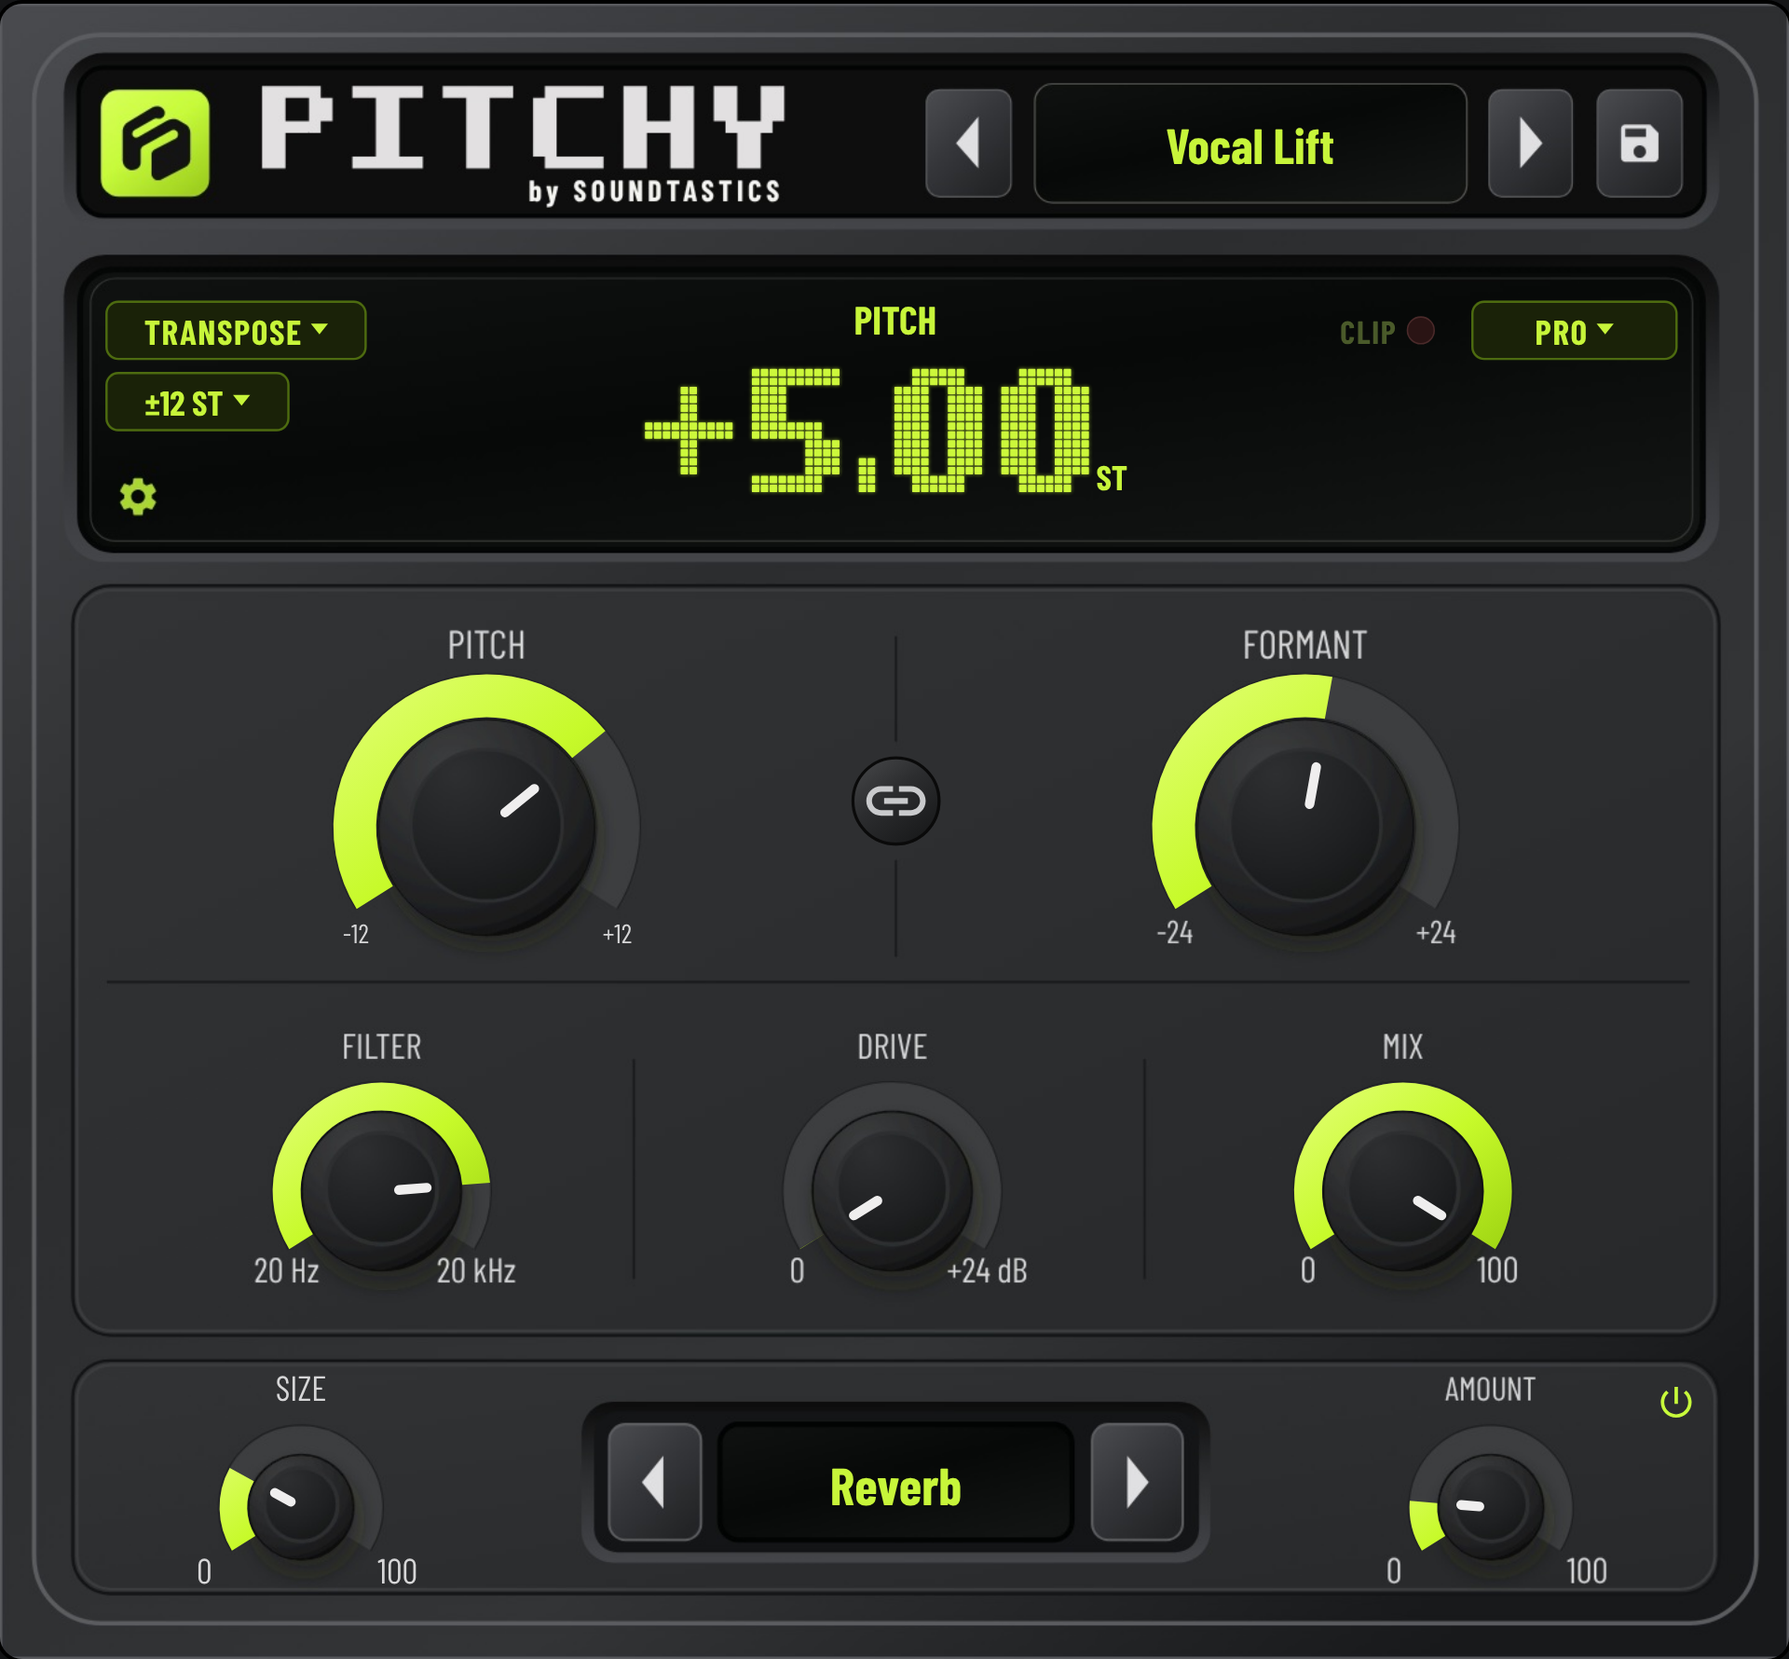
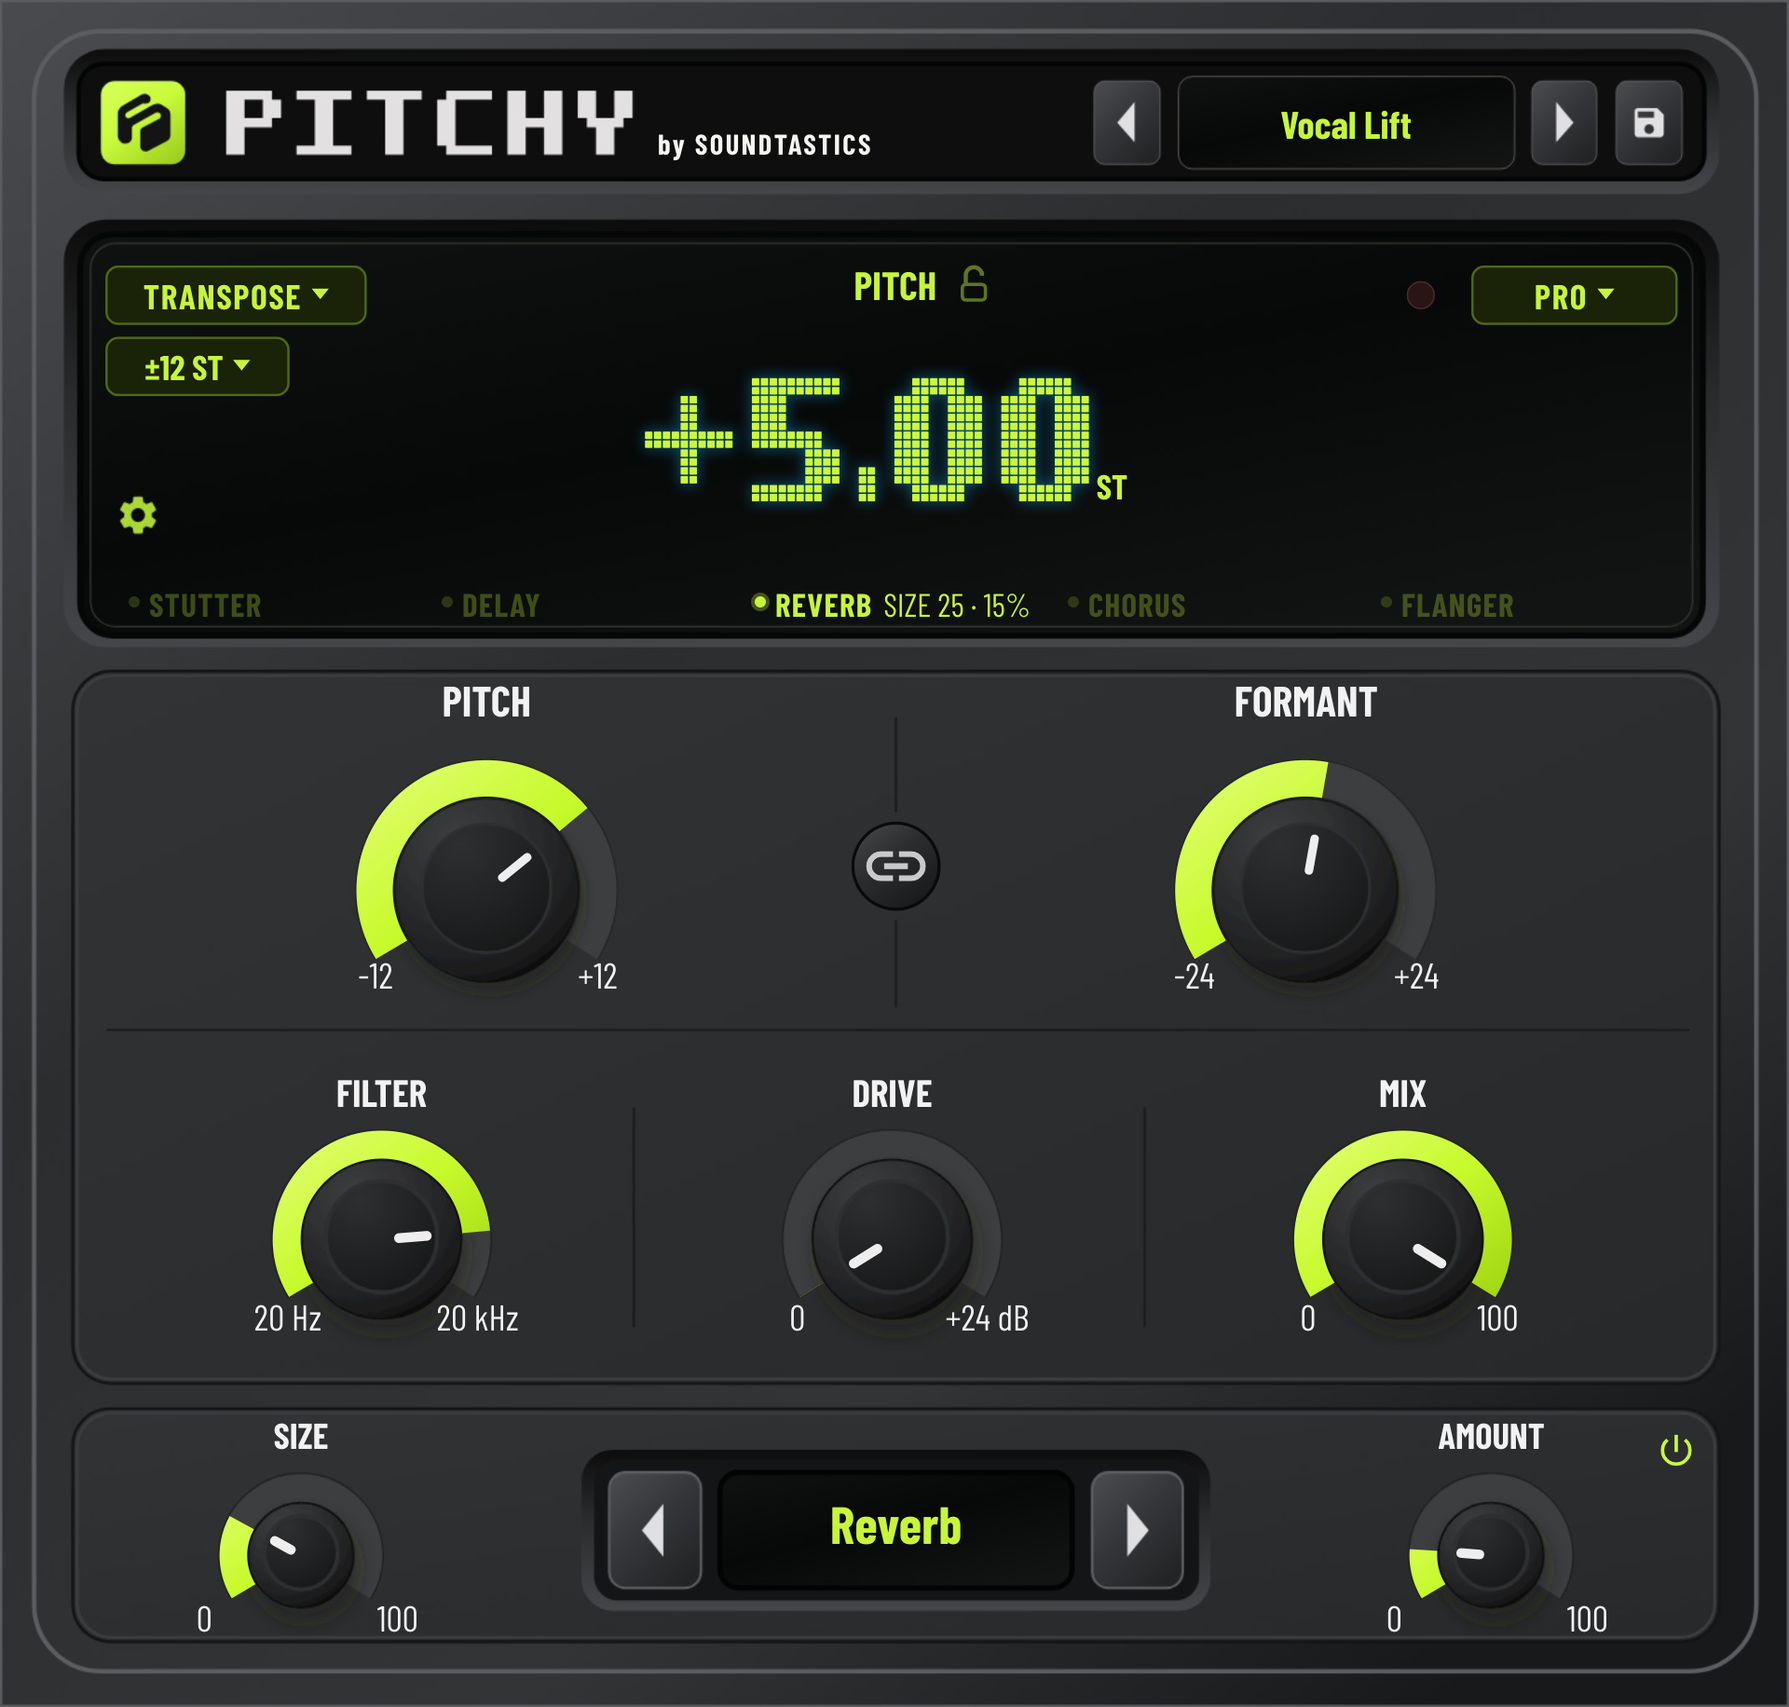
PITCHY page: screenshots and texts for plug-in 0.9.3
- the four interface screenshots (Snow, Midnight, Acid, Lime) from 0.9.3, preset Vocal Lift: taller screen with the
  effects map, lower header, crisp labels (1920x1832, was 1920x1780)
- FX: one power button for the five effects, they can be combined, each starts at Amount 0 (was 'one at a time')
- latency FAQ: compensation checked in Ableton Live 12

Claude-Session: https://claude.ai/code/session_01F3dWgWj1WW6uJfBko4J7wZ

diff --git a/tienda/public/pitchy.html b/tienda/public/pitchy.html
@@ -9,10 +9,10 @@
 <article class="feature"><small>03 / FILTER</small><h3>Equilibra el contenido tonal</h3><p>Reduce el brillo y suaviza los agudos con un filtro paso bajo de frecuencia ajustable.</p><details class="technicalDetails"><summary>Detalles técnicos</summary><p>Atenúa los agudos con un filtro paso bajo de dos polos y pendiente nominal de 12 dB/octava, sin resonancia ajustable. El corte recorre 20 Hz–20 kHz, limitado por la frecuencia de muestreo. Al máximo, el filtro se desactiva.</p></details></article>
 <article class="feature"><small>04 / DRIVE</small><h3>Explora la intensidad</h3><p>Añade saturación y carácter con Drive, desde ajustes discretos hasta un procesamiento más intenso.</p><details class="technicalDetails"><summary>Detalles técnicos</summary><p>Añade saturación de curva tanh con hasta +24 dB de ganancia previa y compensación de nivel. Drive utiliza sobremuestreo 2× y antialiasing ADAA de primer orden.</p></details></article>
 <article class="feature"><small>05 / MIX</small><h3>Original y procesado</h3><p>Equilibra el sonido original y el procesado para graduar la presencia del efecto en la mezcla.</p><details class="technicalDetails"><summary>Detalles técnicos</summary><p>Mezcla linealmente el original con toda la cadena procesada: Pitch/Formant, Filter, Drive y FX. La ruta original incorpora retardo interno para alinearse con el procesamiento.</p></details></article>
-<article class="feature"><small>06 / FX</small><h3>Cinco efectos creativos</h3><p>Añade cortes rítmicos, ecos, ambiente o modulación con Stutter, Delay, Reverb, Chorus y Flanger.</p><details class="technicalDetails"><summary>Detalles técnicos</summary><p>Elige Stutter, Delay, Reverb, Chorus o Flanger, uno a la vez. Stutter produce cortes rítmicos de volumen. En Reverb, Size cambia tamaño y decaimiento; Amount regula el nivel añadido.</p></details></article>
+<article class="feature"><small>06 / FX</small><h3>Cinco efectos creativos</h3><p>Añade cortes rítmicos, ecos, ambiente o modulación con Stutter, Delay, Reverb, Chorus y Flanger.</p><details class="technicalDetails"><summary>Detalles técnicos</summary><p>Un solo botón enciende los cinco efectos y puedes combinarlos. Cada uno empieza con Amount a 0 y suena cuando lo subes; la pantalla muestra los que están sonando, con sus ajustes. Stutter produce cortes rítmicos de volumen. En Reverb, Size cambia tamaño y decaimiento; Amount regula el nivel añadido.</p></details></article>
 </div></section>
 
-<section class="interfaceSection" id="interface" aria-labelledby="interfaceTitle"><div class="interfaceIntro"><p class="eyebrow">PITCHY, DE CERCA.</p><h2 id="interfaceTitle">Todo a la vista.<br>El control, en tus manos.</h2><p>Explora la interfaz de Pitchy: tono, formantes, filtro, Drive, mezcla y selección de efectos en un mismo espacio.</p><p class="interfaceFine">Snow es la apariencia predeterminada. Puedes ver las alternativas desde el selector bajo la imagen.</p></div><div class="productDisplay"><div class="imageStage"><div class="themeTop"><span>PITCHY / INTERFAZ</span><span id="themeName">SNOW</span></div><img id="pitchyImage" src="assets/pitchy-snow.png" alt="Interfaz completa de Pitchy · Snow" width="1920" height="1780" loading="lazy"></div><div class="themePicker" role="group" aria-label="Seleccionar apariencia"><button data-theme="snow" aria-pressed="true"><span class="dot" style="--dot:#eeeadd"></span>Snow</button><button data-theme="midnight" aria-pressed="false"><span class="dot" style="--dot:#22b6f0"></span>Midnight</button><button data-theme="acid" aria-pressed="false"><span class="dot" style="--dot:#c5f529"></span>Acid</button><button data-theme="lime" aria-pressed="false"><span class="dot" style="--dot:#eff4dc"></span>Lime</button></div></div></section><section class="section faq" id="faq"><div><p class="eyebrow">ANTES DE EMPEZAR.</p><h2>Sobre Pitchy.</h2></div><div><details><summary>¿Pitch y Formant hacen lo mismo?</summary><p>No. Pitch modifica la altura tonal, mientras que Formant trabaja las resonancias que dan carácter al timbre. Sus valores no deben interpretarse como ajustes equivalentes.</p></details><details><summary>¿Incluye varias apariencias?</summary><p>Snow es el diseño predeterminado. Midnight, Acid y Lime son alternativas visuales del mismo plugin.</p></details><details><summary>¿Qué hacen Robot y Quantize?</summary><p>Robot lleva la nota detectada a la nota seleccionada, adaptando la octava al registro. Quantize aproxima la nota a una escala cromática, mayor o menor, con velocidad Retune ajustable. Ambos usan detección monofónica y actúan en Pro, Voice y Drums, pero no en Lo-Fi.</p></details><details><summary>¿Tiene presets y latencia?</summary><p>Incluye 14 presets de fábrica y funciones para guardar presets propios. La latencia depende del algoritmo y se comunica al host; no es un plugin de latencia cero. La compensación y el guardado de sesiones requieren completar las pruebas en DAWs.</p></details><details><summary>¿Qué formatos y sistemas son compatibles?</summary><p>PITCHY se instala como VST3, AU y Standalone en Windows, Mac y Linux. Prueba la demo gratuita en tu DAW antes de comprar.</p></details><details><summary>¿Cómo recibiré el plugin?</summary><p id="deliveryAnswer">Descarga el instalador desde <a href="#descargar">esta página</a>: funciona en modo demo. Al comprar recibirás por email, desde support@soundtastics.com, tu código de licencia para desbloquearlo.</p></details><details><summary>¿Puedo probarlo en esta página?</summary><p>El selector cambia las capturas de la interfaz. No procesa audio ni simula los controles del plugin.</p></details><details><summary>¿Ya puedo comprar y descargar Pitchy?</summary><p id="purchaseAnswer">La venta aún no está abierta. Cuando esté activa, podrás continuar desde la cesta a un pago seguro.</p></details></div></section>
+<section class="interfaceSection" id="interface" aria-labelledby="interfaceTitle"><div class="interfaceIntro"><p class="eyebrow">PITCHY, DE CERCA.</p><h2 id="interfaceTitle">Todo a la vista.<br>El control, en tus manos.</h2><p>Explora la interfaz de Pitchy: tono, formantes, filtro, Drive, mezcla y efectos en un mismo espacio. La pantalla te enseña de un vistazo todo lo que está sonando.</p><p class="interfaceFine">Snow es la apariencia predeterminada. Puedes ver las alternativas desde el selector bajo la imagen.</p></div><div class="productDisplay"><div class="imageStage"><div class="themeTop"><span>PITCHY / INTERFAZ</span><span id="themeName">SNOW</span></div><img id="pitchyImage" src="assets/pitchy-snow.png" alt="Interfaz completa de Pitchy · Snow" width="1920" height="1832" loading="lazy"></div><div class="themePicker" role="group" aria-label="Seleccionar apariencia"><button data-theme="snow" aria-pressed="true"><span class="dot" style="--dot:#eeeadd"></span>Snow</button><button data-theme="midnight" aria-pressed="false"><span class="dot" style="--dot:#22b6f0"></span>Midnight</button><button data-theme="acid" aria-pressed="false"><span class="dot" style="--dot:#c5f529"></span>Acid</button><button data-theme="lime" aria-pressed="false"><span class="dot" style="--dot:#eff4dc"></span>Lime</button></div></div></section><section class="section faq" id="faq"><div><p class="eyebrow">ANTES DE EMPEZAR.</p><h2>Sobre Pitchy.</h2></div><div><details><summary>¿Pitch y Formant hacen lo mismo?</summary><p>No. Pitch modifica la altura tonal, mientras que Formant trabaja las resonancias que dan carácter al timbre. Sus valores no deben interpretarse como ajustes equivalentes.</p></details><details><summary>¿Incluye varias apariencias?</summary><p>Snow es el diseño predeterminado. Midnight, Acid y Lime son alternativas visuales del mismo plugin.</p></details><details><summary>¿Qué hacen Robot y Quantize?</summary><p>Robot lleva la nota detectada a la nota seleccionada, adaptando la octava al registro. Quantize aproxima la nota a una escala cromática, mayor o menor, con velocidad Retune ajustable. Ambos usan detección monofónica y actúan en Pro, Voice y Drums, pero no en Lo-Fi.</p></details><details><summary>¿Tiene presets y latencia?</summary><p>Incluye 14 presets de fábrica y funciones para guardar presets propios. La latencia depende del algoritmo y se comunica al host, que la compensa automáticamente (comprobado en Ableton Live 12); no es un plugin de latencia cero.</p></details><details><summary>¿Qué formatos y sistemas son compatibles?</summary><p>PITCHY se instala como VST3, AU y Standalone en Windows, Mac y Linux. Prueba la demo gratuita en tu DAW antes de comprar.</p></details><details><summary>¿Cómo recibiré el plugin?</summary><p id="deliveryAnswer">Descarga el instalador desde <a href="#descargar">esta página</a>: funciona en modo demo. Al comprar recibirás por email, desde support@soundtastics.com, tu código de licencia para desbloquearlo.</p></details><details><summary>¿Puedo probarlo en esta página?</summary><p>El selector cambia las capturas de la interfaz. No procesa audio ni simula los controles del plugin.</p></details><details><summary>¿Ya puedo comprar y descargar Pitchy?</summary><p id="purchaseAnswer">La venta aún no está abierta. Cuando esté activa, podrás continuar desde la cesta a un pago seguro.</p></details></div></section>
 <section class="purchaseClosing"><div><p class="eyebrow">PITCHY BY SOUNDTASTICS</p><h2>Dale otra dimensión<br>a tu próxima idea.</h2></div><div><p class="closingPrice"><s class="was">29,00 €</s> 14,99 €</p><button class="primary" data-buy>Añadir a la cesta <span aria-hidden="true">↗</span></button><p class="fine" data-launch-note>Compra disponible al abrir las ventas.</p></div></section></main>
 <footer><a class="brand footerBrand" href="index.html"><img class="companyLogo" src="assets/soundtastics-symbol.png" alt="">soundtastics</a><p>© 2026 Soundtastics<br>Pitchy · Vista previa de lanzamiento</p><div class="storeLinks"><a href="aviso-legal.html">Aviso legal</a><a href="#faq">Preguntas frecuentes</a><a id="termsLink" hidden>Términos</a><a id="privacyLink" hidden>Privacidad</a><a id="refundLink" hidden>Reembolsos</a><a id="supportLink" href="mailto:hello@soundtastics.com">hello@soundtastics.com</a></div></footer>
 <dialog id="cart"><button class="close" id="cartClose" aria-label="Cerrar cesta">×</button><h2>Tu cesta.</h2><div class="cartProduct" id="cartProduct" hidden><img src="assets/pitchy-snow.png" alt="Pitchy"><div><strong>Pitchy</strong><p>14,99 € · Cuatro apariencias</p><button class="remove" id="removePitchy">Eliminar</button></div></div><p class="empty" id="cartEmpty">Tu cesta está vacía.</p><div class="cartTotal"><span>Total</span><strong id="cartTotal">0,00 €</strong></div><label class="waiver" id="waiverBox" hidden><input type="checkbox" id="waiver"> <span>He leído y acepto las <a href="condiciones.html" target="_blank">Condiciones</a>. Solicito la entrega inmediata del código de licencia y reconozco que, una vez entregado, pierdo el derecho de desistimiento (<a href="devoluciones.html" target="_blank">más información</a>).</span></label><button class="primary cartCheckout" id="checkout">Continuar con la compra</button><p id="cartMessage" role="status"></p><p class="fine" data-launch-note>Venta pendiente de activar. No se realizará ningún cobro.</p><button class="remove" id="continue">Seguir explorando</button></dialog><script src="commerce-config.js"></script><script src="pitchy.js"></script><script src="checkout.js"></script><script src="downloads.js"></script></body></html>

diff --git a/tienda/public/index.html b/tienda/public/index.html
@@ -3,7 +3,7 @@
 <header><a class="brand" href="index.html"><img class="companyLogo" src="assets/soundtastics-symbol.png" alt="">soundtastics</a><nav aria-label="Navegación principal"><a href="index.html" aria-current="page">Inicio</a><a href="#plugins">Plugins</a></nav><button class="cartToggle" id="cartOpen">Cesta <span id="cartCount">0</span></button></header>
 <main>
 <section class="homeCampaign" aria-labelledby="homeTitle"><div class="campaignCopy"><p class="eyebrow">SOUNDTASTICS / SOFTWARE DE AUDIO</p><h1 id="homeTitle">Tus ideas.<br>Otro sonido.</h1><p>Plugins para explorar, transformar y dar carácter a tu música.</p><a class="primary" href="#plugins">Descubre PITCHY</a></div><div class="campaignFilm"><video controls playsinline preload="metadata" aria-label="Presentación de PITCHY"><source src="assets/pitchy-preview.mp4" type="video/mp4">Tu navegador no puede reproducir el vídeo.</video><span>Una primera mirada a PITCHY · Vídeo provisional</span></div></section>
-<section class="homeCollection" id="plugins" aria-labelledby="collectionTitle"><div class="collectionHeading"><div><p class="eyebrow">NUESTROS PLUGINS</p><h2 id="collectionTitle">Empieza con PITCHY.</h2></div><p>El primer plugin de Soundtastics.<br>Una nueva forma de transformar tus ideas.</p></div><article class="homeProduct"><a class="homeProductArt" href="pitchy.html" aria-label="Ver PITCHY"><img src="assets/pitchy-snow.png" alt="PITCHY, interfaz en su apariencia predeterminada Snow" width="1920" height="1780" loading="lazy"></a><div class="homeProductCopy"><p class="eyebrow">PITCH Y FORMANTES</p><h3>PITCHY</h3><p class="productLead">Transforma el tono.<br>Define el carácter.</p><p>Explora el tono y el timbre con controles de pitch, formantes, filtro, Drive y cinco efectos creativos.</p><div class="homePrice"><s class="was">29,00 €</s> 14,99 € <span>Pago único · Precio de lanzamiento</span></div><a class="primary" href="pitchy.html">Descubrir el plugin</a><p class="fine" data-launch-note>Compra disponible al abrir las ventas.</p></div></article></section>
+<section class="homeCollection" id="plugins" aria-labelledby="collectionTitle"><div class="collectionHeading"><div><p class="eyebrow">NUESTROS PLUGINS</p><h2 id="collectionTitle">Empieza con PITCHY.</h2></div><p>El primer plugin de Soundtastics.<br>Una nueva forma de transformar tus ideas.</p></div><article class="homeProduct"><a class="homeProductArt" href="pitchy.html" aria-label="Ver PITCHY"><img src="assets/pitchy-snow.png" alt="PITCHY, interfaz en su apariencia predeterminada Snow" width="1920" height="1832" loading="lazy"></a><div class="homeProductCopy"><p class="eyebrow">PITCH Y FORMANTES</p><h3>PITCHY</h3><p class="productLead">Transforma el tono.<br>Define el carácter.</p><p>Explora el tono y el timbre con controles de pitch, formantes, filtro, Drive y cinco efectos creativos.</p><div class="homePrice"><s class="was">29,00 €</s> 14,99 € <span>Pago único · Precio de lanzamiento</span></div><a class="primary" href="pitchy.html">Descubrir el plugin</a><p class="fine" data-launch-note>Compra disponible al abrir las ventas.</p></div></article></section>
 <section class="homeAbout"><p class="eyebrow">HECHO PARA CREAR</p><h2>Menos vueltas.<br>Más posibilidades.</h2><p>En Soundtastics desarrollamos herramientas de audio para experimentar con el sonido y encontrar nuevas ideas en lo que ya estás creando.</p><a href="mailto:hello@soundtastics.com">Hablemos: hello@soundtastics.com</a></section>
 </main>
 <footer><a class="brand footerBrand" href="index.html"><img class="companyLogo" src="assets/soundtastics-symbol.png" alt="">soundtastics</a><p>© 2026 Soundtastics<br>Software de audio · Soundtastics</p><div class="storeLinks"><a href="aviso-legal.html">Aviso legal</a><a href="pitchy.html#faq">Preguntas frecuentes</a><a id="termsLink" hidden>Términos</a><a id="privacyLink" hidden>Privacidad</a><a id="refundLink" hidden>Reembolsos</a><a id="supportLink" href="mailto:hello@soundtastics.com">hello@soundtastics.com</a></div></footer>
